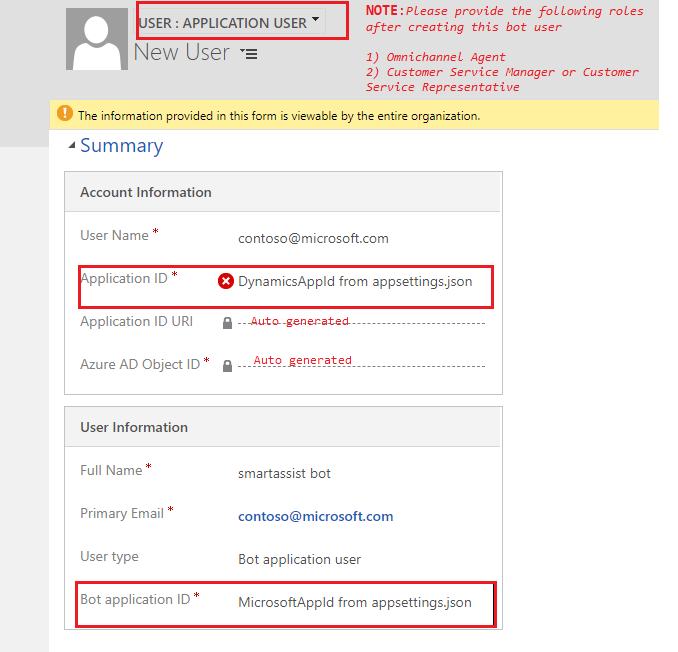
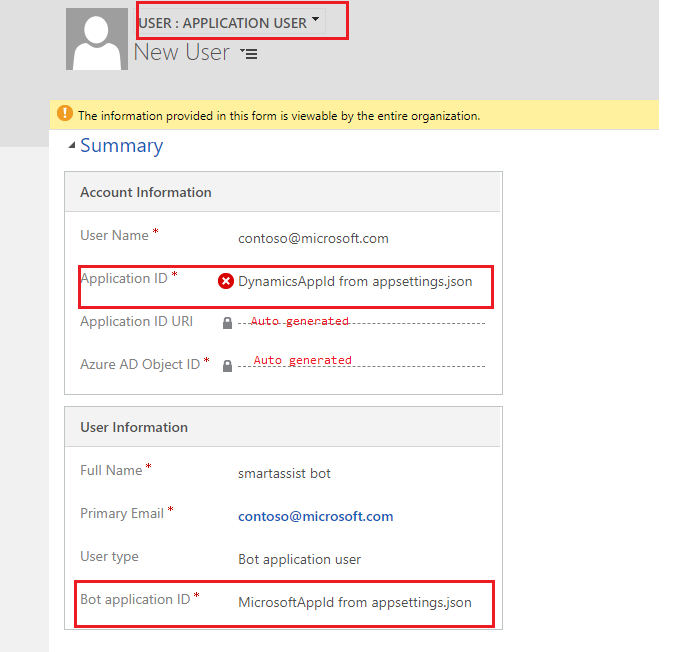
Fixed Readme and a Screenshot

Changed region(s): [[0.5265, 0.0, 0.9602, 0.1534], [0.7124, 0.8896, 0.7434, 0.9509], [0.0929, 0.8896, 0.1239, 0.9202]]

diff --git a/customer-service/omnichannel/smart-assist-bot/README.md b/customer-service/omnichannel/smart-assist-bot/README.md
@@ -150,7 +150,12 @@ Please make sure to enable Teams channel like mentioned in this [link](https://d
 Please follow the steps mentioned in this [admin guide](https://docs.microsoft.com/en-us/dynamics365/omnichannel/administrator/smart-assist#walk-through-to-enable-smart-assist) to enable Smart Assist in Omnichannel
 
 - [Create a bot user](https://docs.microsoft.com/en-us/dynamics365/omnichannel/administrator/smart-assist#step-2-create-a-bot-user)
-Create a CDS application user and provide security roles. Refer the below screenshot
+
+  Create a CDS application user (Refer the below screenshot).
+  Also you need to provide the following security roles for this bot user.
+
+  1) Omnichannel Agent
+  2) Customer Service Manager or Customer Service Representative
 
 ![](screenshots/BotUser.png)
 
